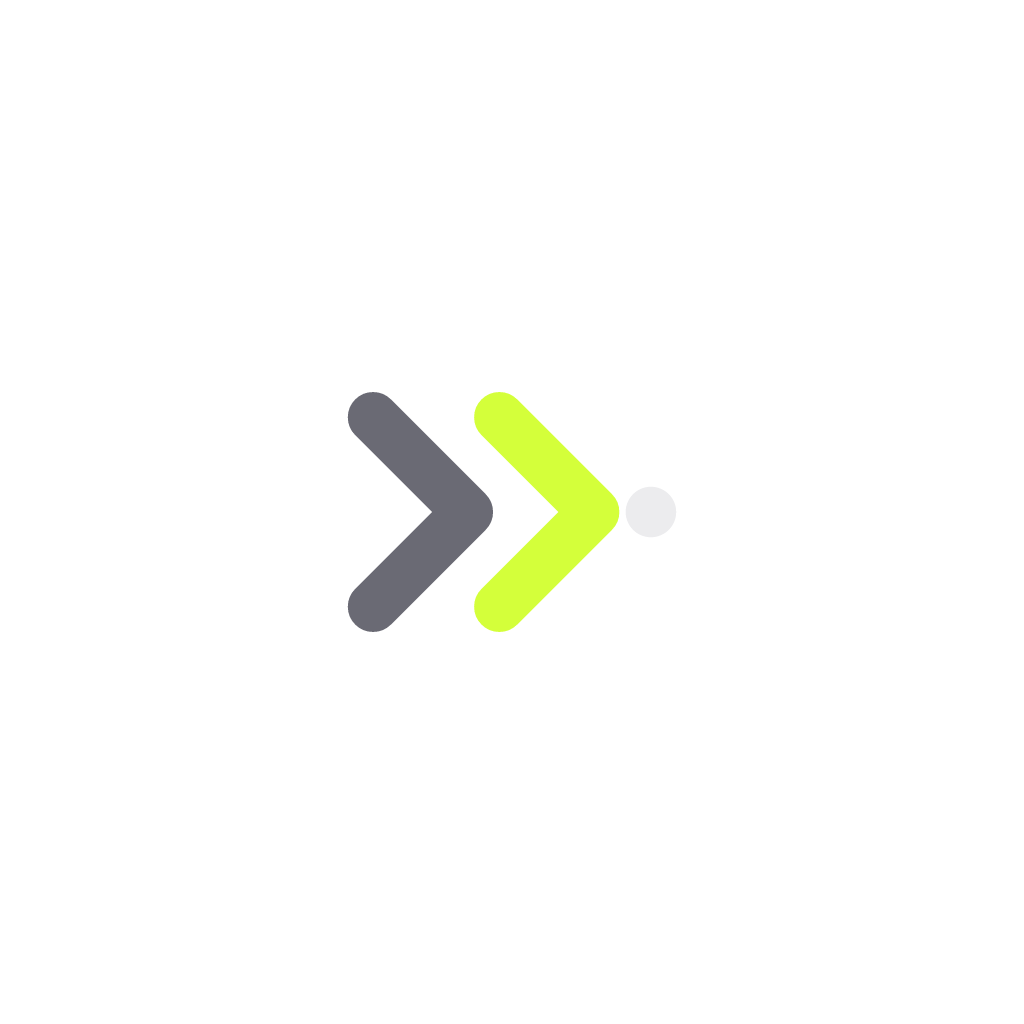
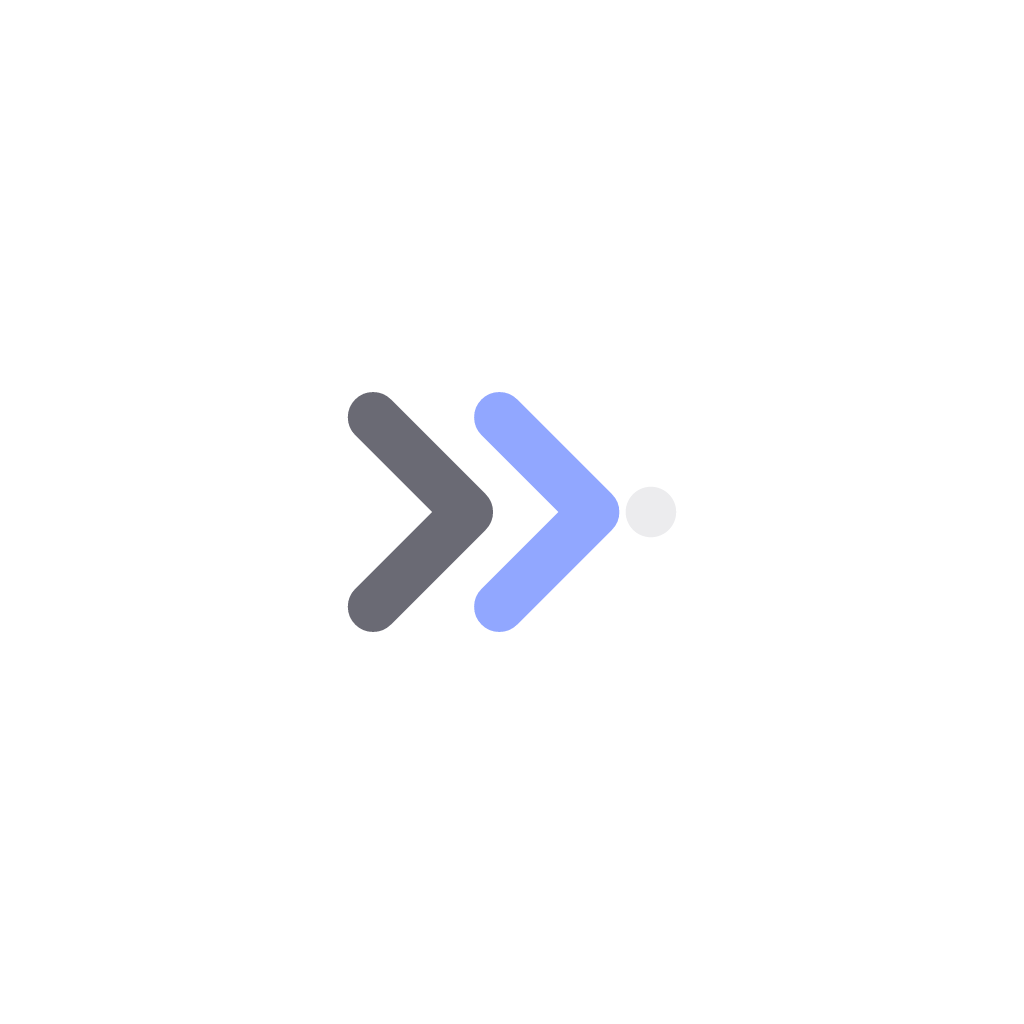
A calm indigo accent instead of the acid lime; colored Normal, In progress and Personal tags
The accent (buttons, the running activity, the logo's chevron, the favicon tile and every
generated icon) is an indigo with white text; text on a solid project color gets its own
onColor token. Normal is green, In progress blue, ASAP a clearer red and Personal the
tangerine of Google Calendar. The update notice is a card in the corner with plain words
and a Later button instead of a lime bar over the header.

Claude-Session: https://claude.ai/code/session_012mED4vQNpJ7f75Zxr5QYrp

Changed region(s): [[0.4688, 0.375, 0.625, 0.625]]

diff --git a/apps/app/src/features/task/task-summary.tsx b/apps/app/src/features/task/task-summary.tsx
@@ -7,7 +7,12 @@ import { zonedText } from "#app/format/time.ts";
 import { useViewer } from "#app/shared/use-viewer.ts";
 import { inkClass, washClass } from "#app/ui/color.tsx";
 import { cx } from "#app/ui/cx.ts";
-import { formatDuration, IMPORTANCE_COLORS } from "@pace/core";
+import {
+  formatDuration,
+  IMPORTANCE_COLORS,
+  type ProjectColorName,
+  STATUS_COLORS,
+} from "@pace/core";
 
 const tagKey = (tag: TaskTag) => {
   switch (tag.kind) {
@@ -22,6 +27,22 @@ const tagKey = (tag: TaskTag) => {
     }
     case "submission": {
       return `submission.${tag.submission}` as const;
+    }
+  }
+};
+
+/** Importance and a status under way are colored; the rest stays neutral. */
+const tagColor = (tag: TaskTag): null | ProjectColorName => {
+  switch (tag.kind) {
+    case "importance": {
+      return IMPORTANCE_COLORS[tag.importance];
+    }
+    case "status": {
+      return STATUS_COLORS[tag.status];
+    }
+    case "outcome":
+    case "submission": {
+      return null;
     }
   }
 };
@@ -42,31 +63,32 @@ const Stat = ({
   </View>
 );
 
-/** Importance (with its colour), status and submission as small tags. */
+/** Importance and status in their colours, submission and outcome neutral, as small tags. */
 const TaskTags = ({ tags }: { readonly tags: TaskViewModel["tags"] }) => {
   const t = useT();
   return (
     <View className="flex-row flex-wrap gap-1.5">
-      {tags.map((tag) => (
-        <View
-          className={cx(
-            "flex-row items-center gap-1.5 rounded-sm px-2 py-1",
-            tag.kind === "importance" ? washClass(IMPORTANCE_COLORS[tag.importance]) : "bg-track",
-          )}
-          key={tag.kind}
-        >
-          <Text
+      {tags.map((tag) => {
+        const color = tagColor(tag);
+        return (
+          <View
             className={cx(
-              "font-sans text-[11px]",
-              tag.kind === "importance"
-                ? cx("font-medium", inkClass(IMPORTANCE_COLORS[tag.importance]))
-                : "text-fg2",
+              "flex-row items-center gap-1.5 rounded-sm px-2 py-1",
+              color === null ? "bg-track" : washClass(color),
             )}
+            key={tag.kind}
           >
-            {t(tagKey(tag))}
-          </Text>
-        </View>
-      ))}
+            <Text
+              className={cx(
+                "font-sans text-[11px]",
+                color === null ? "text-fg2" : cx("font-medium", inkClass(color)),
+              )}
+            >
+              {t(tagKey(tag))}
+            </Text>
+          </View>
+        );
+      })}
     </View>
   );
 };

diff --git a/apps/app/src/platform/update-banner.web.tsx b/apps/app/src/platform/update-banner.web.tsx
@@ -47,29 +47,49 @@ const useWaitingWorker = (): null | Workbox => {
   return waiting;
 };
 
+/**
+A quiet card in the corner, not a bar over the header: what happened, that nothing is lost,
+Refresh (hands control to the new worker) and Later (until the next visit).
+*/
 export const UpdateBanner = () => {
   const t = useT();
   const waiting = useWaitingWorker();
-  if (waiting === null) {
+  const [isDismissed, setIsDismissed] = useState(false);
+  if (waiting === null || isDismissed) {
     return null;
   }
   return (
     <View
       accessibilityLiveRegion="polite"
-      className="absolute inset-x-0 top-0 z-50 flex-row items-center justify-center gap-3 bg-accent px-4 py-2"
+      className="absolute bottom-4 left-4 right-4 z-50 mx-auto max-w-[400px] gap-3 rounded-xl border border-line bg-surface p-4 shadow-lg"
+      role="status"
     >
-      <Text className="font-sans text-[14px] font-medium text-accentFg">{t("update.ready")}</Text>
-      <Pressable
-        accessibilityRole="button"
-        className="rounded-md border border-accentFg px-3 py-1 active:opacity-70"
-        onPress={() => {
-          waiting.messageSkipWaiting();
-        }}
-      >
-        <Text className="font-sans text-[14px] font-semibold text-accentFg">
-          {t("update.reload")}
-        </Text>
-      </Pressable>
+      <View className="gap-1">
+        <Text className="font-sans text-[14px] font-semibold text-fg">{t("update.ready")}</Text>
+        <Text className="font-sans text-[13px] text-muted">{t("update.detail")}</Text>
+      </View>
+      <View className="flex-row justify-end gap-2">
+        <Pressable
+          accessibilityRole="button"
+          className="h-9 justify-center rounded-md px-3 active:opacity-70"
+          onPress={() => {
+            setIsDismissed(true);
+          }}
+        >
+          <Text className="font-sans text-[14px] text-fg2">{t("update.later")}</Text>
+        </Pressable>
+        <Pressable
+          accessibilityRole="button"
+          className="h-9 justify-center rounded-md bg-accent px-4 active:opacity-80"
+          onPress={() => {
+            waiting.messageSkipWaiting();
+          }}
+        >
+          <Text className="font-sans text-[14px] font-medium text-accentFg">
+            {t("update.reload")}
+          </Text>
+        </Pressable>
+      </View>
     </View>
   );
 };

diff --git a/packages/core/src/design/contrast.test.ts b/packages/core/src/design/contrast.test.ts
@@ -6,6 +6,7 @@ import {
   inkOf,
   type PaletteName,
   type ProjectColorName,
+  STATUS_COLORS,
   TAG_TINT,
   THEMES,
   tokens,
@@ -101,6 +102,13 @@ describe("tokens", () => {
     expect(contrastRatio(tokens[theme].accentFg, tokens[theme].accent)).toBeGreaterThanOrEqual(4.5);
   });
 
+  it.each(THEMES)("%s accent is a calm indigo, never the old acid lime", (theme) => {
+    expect(tokens[theme].accent.toLowerCase()).not.toBe("#d4ff3a");
+    const accent = parseHex(tokens[theme].accent);
+    // Blue leads: an indigo, not a green or a yellow.
+    expect(accent !== null && accent.b > accent.g && accent.b > accent.r).toBe(true);
+  });
+
   it.each(THEMES)(
     "%s colored tags reach 4.5:1: ink on its wash, dark text on the solid color",
     (theme) => {
@@ -109,7 +117,7 @@ describe("tokens", () => {
         (["surface", "raised"] as const).map((background) => {
           const tinted = wash(tokens.project[color], palette[background], TAG_TINT);
           const ink = contrastRatio(palette[inkOf(color)], tinted) ?? 0;
-          const solid = contrastRatio(palette.accentFg, tokens.project[color]) ?? 0;
+          const solid = contrastRatio(palette.onColor, tokens.project[color]) ?? 0;
           return { background, color, ink, solid };
         }),
       ).filter(({ ink, solid }) => ink < 4.5 || solid < 4.5);
@@ -125,12 +133,27 @@ describe("tokens", () => {
 });
 
 describe("IMPORTANCE_COLORS", () => {
-  it("marks every importance, Normal without a color", () => {
+  it("marks every importance with a color of its own, Normal green", () => {
     expect(IMPORTANCE_COLORS).toEqual({
       asap: "coral",
       prioritized: "amber",
-      normal: null,
+      normal: "green",
       nice_to_have: "slate",
     });
+  });
+});
+
+describe("STATUS_COLORS", () => {
+  it("draws In progress in blue, never in the gray of the other tags", () => {
+    expect(STATUS_COLORS.in_progress).toBe("blue");
+    expect(STATUS_COLORS.not_started).toBeNull();
+  });
+});
+
+describe("project colors", () => {
+  it("keeps ASAP's red and Personal's tangerine apart: red leans further from orange", () => {
+    const red = parseHex(tokens.project.coral);
+    const tangerine = parseHex(tokens.project.orange);
+    expect(red !== null && tangerine !== null && tangerine.g - red.g >= 10).toBe(true);
   });
 });

diff --git a/scripts/generate-icons.ts b/scripts/generate-icons.ts
@@ -4,7 +4,7 @@ import path from "node:path";
 
 /**
 Brand assets (design board "08 · Step"). The mark is two chevrons and a dot; the favicon is
-the chevrons on a lime tile. This script is the single source for every logo SVG in
+the chevrons on an indigo tile (the app's accent). This script is the single source for every logo SVG in
 assets/logo and for the committed PNG icons of the web app and the Expo app. Rerun with
 `bun scripts/generate-icons.ts` after changing the mark; the output is deterministic.
 */
@@ -16,11 +16,11 @@ const XMLNS = 'xmlns="http://www.w3.org/2000/svg"';
 const STROKE = 'fill="none" stroke-linecap="round" stroke-linejoin="round"';
 
 // The first chevron is the quiet one, yet it must read on the dark tile (3:1, not 1.7:1).
-const DARK: Palette = { accent: "#d4ff3a", fg: "#ececee", track: "#6a6a74" };
-const LIGHT: Palette = { accent: "#17181c", fg: "#17181c", track: "#b9bcc6" };
+const DARK: Palette = { accent: "#91a7ff", fg: "#ececee", track: "#6a6a74" };
+const LIGHT: Palette = { accent: "#3b5bdb", fg: "#17181c", track: "#b9bcc6" };
 const WHITE: Palette = { accent: "#ffffff", fg: "#ffffff", track: "#ffffff" };
 const DARK_BG = "#0b0b0c";
-const LIME = "#d4ff3a";
+const INDIGO = "#4263eb";
 
 /**
 The mark's drawing in its 120x120 coordinate space (no <svg> wrapper). Its ink spans x 10–114,
@@ -62,7 +62,7 @@ const wordmarkSvg = (): string =>
 const faviconSvg = (): string =>
   svg(
     120,
-    `<rect width="120" height="120" rx="30" fill="${LIME}"/>\n  ${faviconShapes({ accent: DARK_BG, fg: DARK_BG, track: "rgba(0,0,0,.3)" })}`,
+    `<rect width="120" height="120" rx="30" fill="${INDIGO}"/>\n  ${faviconShapes({ accent: "#ffffff", fg: "#ffffff", track: "rgba(255,255,255,.45)" })}`,
   );
 
 /** A 1024x1024 canvas with `shapes` (drawn in a 120 unit box) centred at `fraction` of the width. */

diff --git a/scripts/generate-icons.test.ts b/scripts/generate-icons.test.ts
@@ -40,16 +40,17 @@ describe("generate-icons", () => {
     expect(renderPng(first.svg, first.size).equals(renderPng(first.svg, first.size))).toBe(true);
   });
 
-  it("ships the logo SVGs with the board 08 palettes", () => {
+  it("ships the logo SVGs with the board 08 shapes in the indigo accent", () => {
     const svg = Object.fromEntries(LOGO_FILES.map((file) => [file.path, file.svg]));
-    expect(svg["assets/logo/pace-mark.svg"]).toContain("#d4ff3a");
+    expect(svg["assets/logo/pace-mark.svg"]).toContain("#91a7ff");
     expect(svg["assets/logo/pace-mark.svg"]).toContain("#6a6a74");
     expect(svg["assets/logo/pace-mark.svg"]).not.toContain("#0b0b0c");
     expect(svg["assets/logo/pace-mark-light.svg"]).toContain("#b9bcc6");
-    expect(svg["assets/logo/pace-mark-light.svg"]).toContain("#17181c");
+    expect(svg["assets/logo/pace-mark-light.svg"]).toContain("#3b5bdb");
     expect(svg["assets/logo/pace-wordmark.svg"]).toContain(">pace<");
     expect(svg["assets/logo/pace-wordmark.svg"]).toContain("Inter, system-ui, sans-serif");
-    expect(svg["assets/logo/favicon.svg"]).toContain("#d4ff3a");
+    expect(svg["assets/logo/favicon.svg"]).toContain("#4263eb");
+    expect(Object.values(svg).join("")).not.toContain("#d4ff3a");
     expect(svg["assets/logo/favicon.svg"]).not.toContain("<circle");
     expect(svg["apps/app/public/favicon.svg"]).toBe(svg["assets/logo/favicon.svg"]);
   });

diff --git a/packages/core/src/design/tokens.ts b/packages/core/src/design/tokens.ts
@@ -22,6 +22,7 @@ export type PaletteName =
   | "inverseFg"
   | "line"
   | "muted"
+  | "onColor"
   | "question"
   | "raised"
   | "surface"
@@ -60,17 +61,27 @@ export type Tokens = {
 export const tokens: Tokens = tokensJson;
 
 /**
-Each importance's color from the project palette: hot for ASAP, warm for Prioritized, none
-for Normal, cool for Nice-to-have. Shown as a tinted tag (`ink-*` text on a light wash of
-the color) and as the row's edge.
+Each importance's color from the project palette: red for ASAP, warm for Prioritized, green
+for Normal (the calm default), cool for Nice-to-have. Shown as a tinted tag (`ink-*` text on
+a light wash of the color).
 */
 export const IMPORTANCE_COLORS: Readonly<
   Record<"asap" | "nice_to_have" | "normal" | "prioritized", null | ProjectColorName>
 > = {
   asap: "coral",
   prioritized: "amber",
-  normal: null,
+  normal: "green",
   nice_to_have: "slate",
+};
+
+/** A task status's tag color: work under way stands out in blue; the rest stay neutral. */
+export const STATUS_COLORS: Readonly<
+  Record<"in_progress" | "not_started" | "paused" | "waiting", null | ProjectColorName>
+> = {
+  not_started: null,
+  in_progress: "blue",
+  paused: null,
+  waiting: null,
 };
 
 /** The text color of a tag in `color`: the project color itself on dark, a deeper shade on light. */

diff --git a/packages/core/src/i18n/ru/shell.ts b/packages/core/src/i18n/ru/shell.ts
@@ -182,8 +182,10 @@ export const ruShell: { readonly [K in keyof typeof enShell]: string } = {
   "errors.notFound": "Не найдено.",
   "errors.pageNotFound": "Страница не найдена",
   "errors.pageNotFoundBody": "По адресу {path} ничего нет.",
-  "update.ready": "Мы кое-что поменяли",
+  "update.ready": "Вышла новая версия Pace",
+  "update.detail": "Обновите страницу, чтобы получить исправления. Введённое не потеряется.",
   "update.reload": "Обновить",
+  "update.later": "Позже",
   "settings.digestWindows.hint": "Когда приходят дневные сводки, по часовому поясу аккаунта.",
   "settings.digestWindows.add": "Добавить время",
   "settings.digestWindows.remove": "Убрать {time}",

diff --git a/packages/core/src/i18n/en/shell.ts b/packages/core/src/i18n/en/shell.ts
@@ -181,8 +181,10 @@ export const enShell = {
   "errors.notFound": "Not found.",
   "errors.pageNotFound": "Page not found",
   "errors.pageNotFoundBody": "There is nothing at {path}.",
-  "update.ready": "We changed a few things",
-  "update.reload": "Reload",
+  "update.ready": "A new version of Pace is ready",
+  "update.detail": "Refresh to get the latest fixes. Nothing you entered is lost.",
+  "update.reload": "Refresh",
+  "update.later": "Later",
   "common.and": "and",
   "common.close": "Close",
   "time.zoned": "{time} {zone} (your time {local})",

diff --git a/apps/app/src/ui/chip.tsx b/apps/app/src/ui/chip.tsx
@@ -23,7 +23,7 @@ const chipFill = (color: null | ProjectColorName, isSelected: boolean): string =
 
 const chipText = (color: null | ProjectColorName, isSelected: boolean): string => {
   if (isSelected) {
-    return color === null ? "font-medium text-fg" : "font-medium text-accentFg";
+    return color === null ? "font-medium text-fg" : "font-medium text-onColor";
   }
   return color === null ? "text-fg2" : inkClass(color);
 };

diff --git a/apps/app/src/shared/tracking/time-bar.tsx b/apps/app/src/shared/tracking/time-bar.tsx
@@ -182,7 +182,7 @@ type ButtonProps = {
 };
 
 /**
-A big button in its fixed place: icon over name, its color's outline, lime while it runs.
+A big button in its fixed place: icon over name, its color's outline, filled with the accent while it runs.
 A long press, a right click or "⋯" opens what it can start and "alongside".
 */
 const BarButton = ({ button, onMore, onTap }: ButtonProps) => {

diff --git a/apps/app/src/ui/switch-row.tsx b/apps/app/src/ui/switch-row.tsx
@@ -2,7 +2,7 @@ import { Switch, Text, View } from "react-native";
 
 import { useTheme } from "./theme-provider.tsx";
 
-/** The native switch in Pace's colors: off, a light knob on a grey track; on, a dark knob on lime. */
+/** The native switch in Pace's colors: off, a light knob on a grey track; on, a white knob on the indigo accent. */
 export const PaceSwitch = ({
   isOn,
   label,

diff --git a/apps/app/src/ui/progress-bar.tsx b/apps/app/src/ui/progress-bar.tsx
@@ -5,7 +5,7 @@ const PERCENT = 100;
 const share = (fraction: number): `${number}%` =>
   `${Math.min(Math.max(fraction, 0), 1) * PERCENT}%`;
 
-/** The 3px bar of a task row: progress in the foreground colour, the pace marker in lime. */
+/** The 3px bar of a task row: progress in the foreground colour, the marker in the accent. */
 export const ProgressBar = ({
   label,
   marker,
